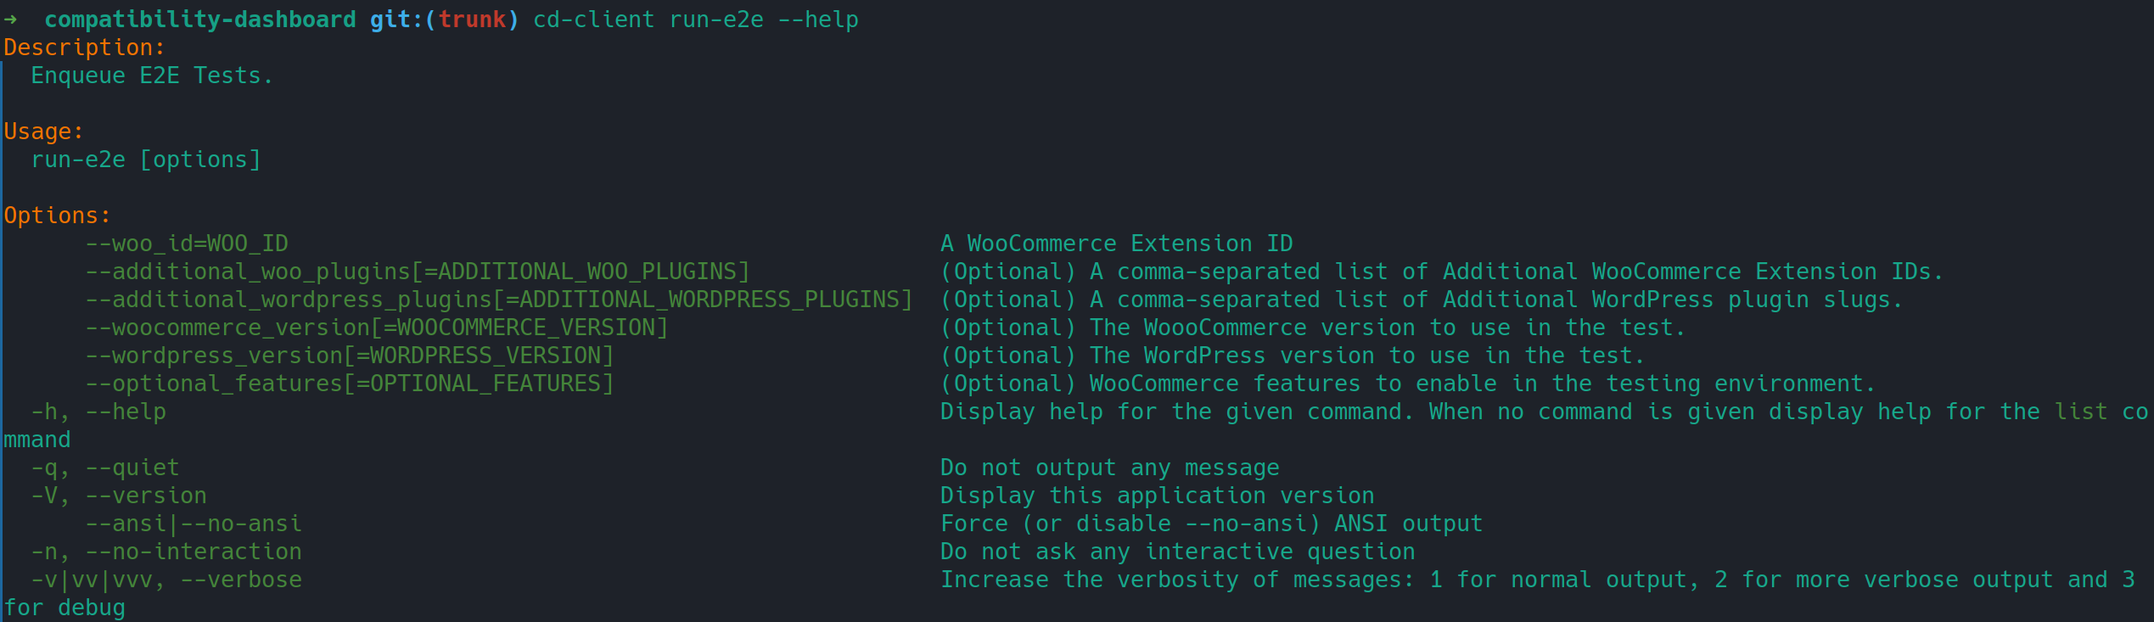
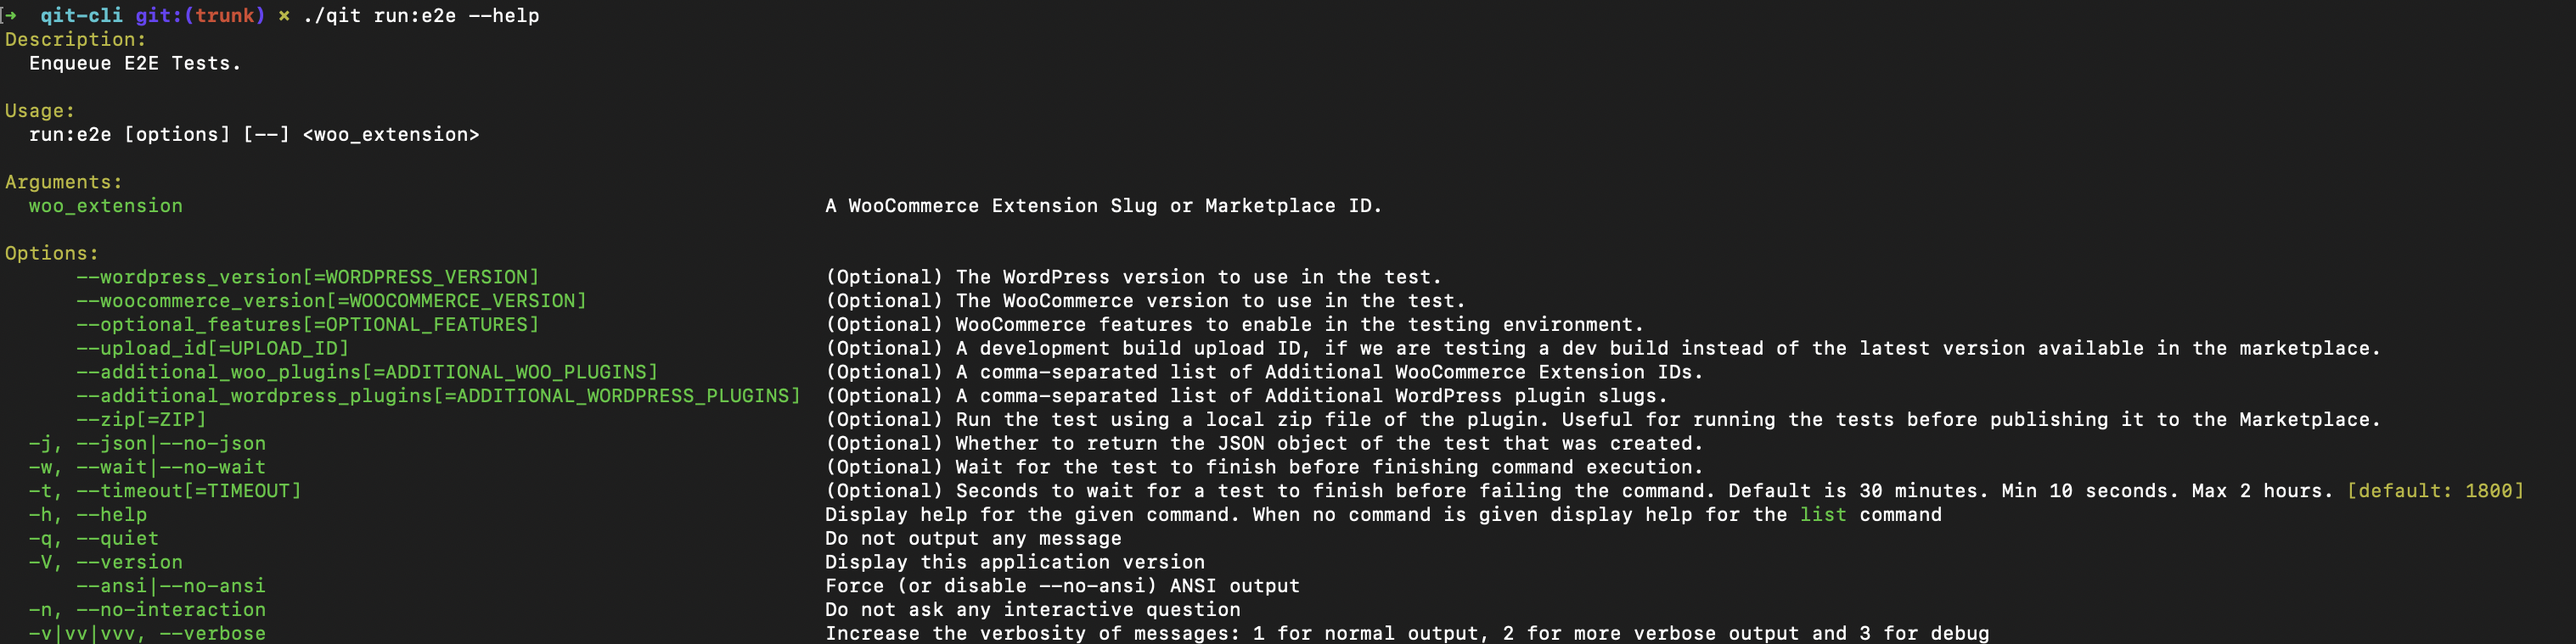
Updating docs with latest chanes in qit cli

Changed region(s): [[0.0, 0.0, 0.9961, 1.0], [0.8093, 0.9004, 0.9961, 0.9604], [0.3113, 0.3001, 0.5292, 0.3302]]

diff --git a/docs/client/running-tests.md b/docs/client/running-tests.md
@@ -4,26 +4,26 @@ The QIT Client allows running tests against both extensions that are published a
 
 ## Choosing the type of test to run
 
-The commands to run tests are formatted as `run-<test-type>`. The client supports all of the current [test types](test-types.md) using the following commands:
+The commands to run tests are formatted as `run:<test-type>`. The client supports all of the current [test types](test-types.md) using the following commands:
 
-- End-to-end: `run-e2e`
-- Activation: `run-activation`
-- PHPStan: `run-phpstan`
-- Security: `run-security`
+- End-to-end: `run:e2e`
+- Activation: `run:activation`
+- PHPStan: `run:phpstan`
+- Security: `run:security`
 
-For example, to run end-to-end tests, you'd run the following command: `cd-client run-e2e`.
+For example, to run end-to-end tests, you'd run the following command: `qit-cli run:e2e`.
 
 ## Testing a published extension
 
 For running any kind of tests, you'll need the slug for the given extension you want to run the tests against. For example, to run end-to-end tests against an extension with the slug `my-extension`, you'd run the following command:
 
 ```shell
-cd-client run-e2e my-extension
+qit-cli run:e2e my-extension
 ```
 
-This will run the [WooCommerce Core E2E Test Suite](https://github.com/woocommerce/woocommerce/tree/trunk/plugins/woocommerce/tests/e2e-pw) against the WooCommerce extension with slug `my-extension` using the latest stable versions of WordPress and WooCommerce. 
+This will run the [WooCommerce Core E2E Test Suite](https://github.com/woocommerce/woocommerce/tree/trunk/plugins/woocommerce/tests/e2e-pw) against the WooCommerce extension with slug `my-extension` using the latest stable versions of WordPress and WooCommerce.
 
-Since the tests are executed in the cloud, you can even close the terminal if you wish. You can see the result of this test after a while running `cd-client list-tests`, or `cd-client get 123`, where `123` is the test run ID. When the test finishes, the status will be updated to `Success`, `Warning`, or `Failed`. For more details on these commands, please see [Useful Commands](client/useful-commands.md).
+Since the tests are executed in the cloud, you can even close the terminal if you wish. You can see the result of this test after a while running `qit-cli list-tests`, or `qit-cli get 123`, where `123` is the test run ID. When the test finishes, the status will be updated to `Success`, `Warning`, or `Failed`. For more details on these commands, please see [Useful Commands](client/useful-commands.md).
 
 ## Testing development builds
 
@@ -36,14 +36,15 @@ Once you have a zipped up version of your extension you'd like to test with, use
 For example, to run end-to-end tests against your local build, you'd fun the following command:
 
 ```shell
-cd-client run-e2e my-extension --zip=my-extension.zip
+qit-cli run:e2e my-extension --zip=my-extension.zip
 ```
+
 ## Seeing test runs and their results
 
-Since the tests are executed in the cloud, you can even close the terminal. You can see the result of this test after a while by running one of the two commands below: 
+Since the tests are executed in the cloud, you can even close the terminal. You can see the result of this test after a while by running one of the two commands below:
 
-- Run `cd-client list-tests` to see a list of test runs.
-- Run `cd-client get 123` to get more details about a specific test run, where `123` is the test run ID.
+- Run `qit-cli list-tests` to see a list of test runs.
+- Run `qit-cli get 123` to get more details about a specific test run, where `123` is the test run ID.
 
 When the test finishes, the status will be updated to `Success`, `Warning`, or `Failed`. For more details on what these commands show, please see [Useful Commands](client/useful-commands.md).
 
@@ -56,10 +57,10 @@ The QIT client supports testing against different versions of WooCommerce and Wo
 
 For example, to run activation tests against the RC 2 version of WooCommerce 7.0.0 and WordPress 6.0.1, you can run the following command:
 
-`cd-client run-activation my-extension --woocommerce_version=7.0.0-rc.2 --wordpress_version=6.0.1`
+`qit-cli run:activation my-extension --woocommerce_version=7.0.0-rc.2 --wordpress_version=6.0.1`
 
 ?> If either these arguments are not supplied, then the tests will just run against the current versions of WooCommerce and WordPress.
 
 For example, if you wanted to run against the latest WordPress but use a different version of WooCommerce, you can do so:
 
-`cd-client run-e2e my-extension --woocommerce_version=6.0.0`
+`qit-cli run:e2e my-extension --woocommerce_version=6.0.0`

diff --git a/docs/client/useful-commands.md b/docs/client/useful-commands.md
@@ -1,6 +1,6 @@
 # Useful commands
 
-To see the commands that the QIT client provides, you can simply run `./cd-client` to see the full list.
+To see the commands that the QIT client provides, you can simply run `./qit-cli` to see the full list.
 
 Some helpful commands to get started include:
 
@@ -30,12 +30,12 @@ Some helpful commands to get started include:
 - `get <run ID>` - Get a single test run using the run ID from the `list tests` command:
 
 ```bash
-Run Id              344745              
-Test Type           security            
-Wordpress Version   6.1.1               
-Woocommerce Version 7.2.2               
-Status              warning             
-Is Development      Yes                 
+Run Id              344745
+Test Type           security
+Wordpress Version   6.1.1
+Woocommerce Version 7.2.2
+Status              warning
+Is Development      Yes
 Woo Extension       My Extension
 ```
 
@@ -47,6 +47,6 @@ Test Type           e2e
 Wordpress Version   6.1.1
 Woocommerce Version 7.2.2
 Status              failed
-Test Result Aws Url https://testreport.url
+Result Url          https://testreport.url
 Woo Extension       My Extension
 ```

diff --git a/docs/README.md b/docs/README.md
@@ -21,4 +21,4 @@ The primary goal of these tools is to assist extension developers to easily inte
 
 <p align="center">Made with 💜 by the <a href="https://woocommerce.github.io/">WooCommerce team</a></p>
 
-<p align="center">Documentation powered by <a href="https://docsify.js.org/">doscsify</a></p>
+<p align="center">Documentation powered by <a href="https://docsify.js.org/">docsify</a></p>
